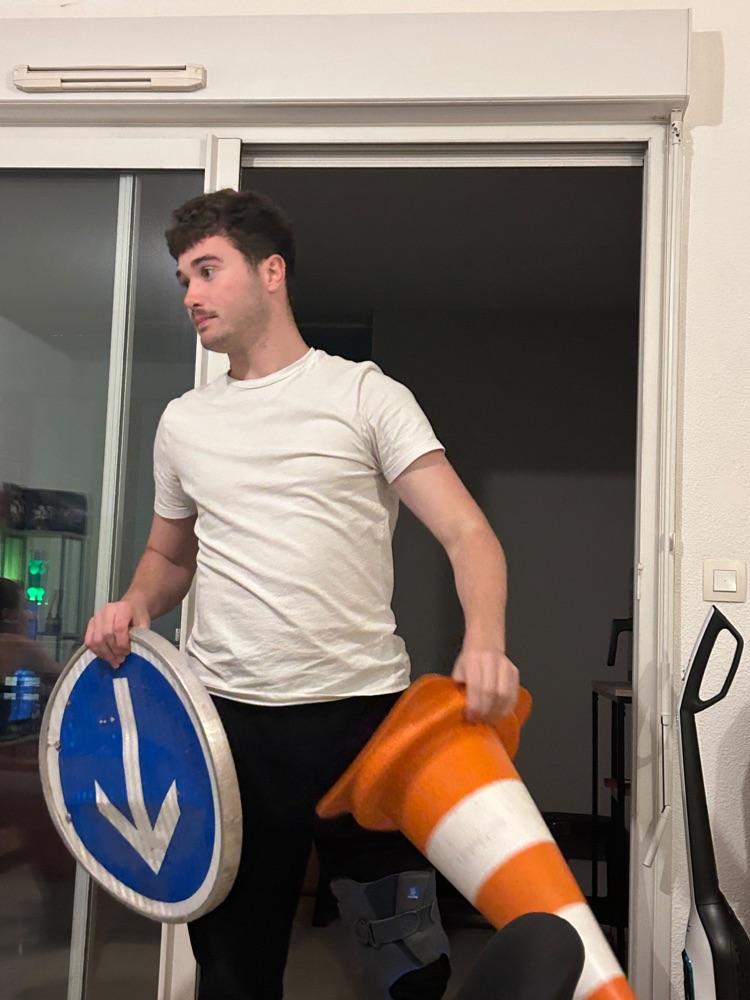
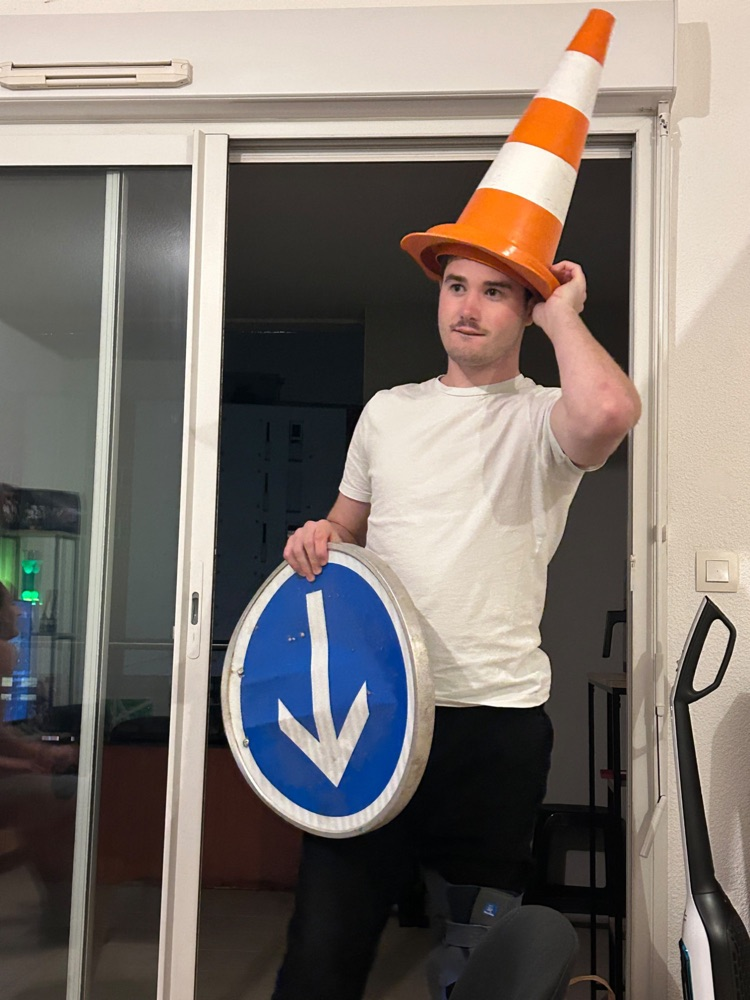
Accueil : nom Yanoé (Yaya + Noé), nouvelle photo de Noé ; de 21 h à 6 h, Nono devient Natasha (Yatasha)

diff --git a/app.js b/app.js
@@ -122,6 +122,11 @@
   }
   const thumb = (src, alt) => `<span class="drawn th">${img(src, alt)}</span>`;
 
+  // Noé (Nono) devient Natasha de 21 h à 6 h ; le nom de l'appli mélange Yaya et son nom : Yanoé, ou Yatasha la nuit
+  const night = () => { const h = new Date().getHours(); return h >= 21 || h < 6; };
+  const NONO = () => night() ? 'Natasha' : 'Nono', APPNAME = () => night() ? 'Yatasha' : 'Yanoé';
+  const nightly = t => t.replace(/Nono/g, NONO()).replace(/Yanoé/g, APPNAME());
+
   // ---------- accueil : où j'en suis, et quoi faire maintenant ----------
   function home() {
     const nP = PEDI.filter(f => doneP(f.id)).length, vP = PEDI.reduce((s, f) => s + pctP(f), 0) / PEDI.length;
@@ -130,9 +135,9 @@
     const nextF = PEDI.find(f => !doneP(f.id) && f !== last);
     const regs = REG_ORDER.map(r => { const it = AQ.filter(x => x.reg === r), k = it.filter(x => doneA(x.q)).length; return `<span class="mini"><span>${REG_SHORT[r]} ${k}/${it.length}</span>${bar(k / it.length, RCOL[r])}</span>`; }).join('');
     return `<div class="wrap">
-      <header class="brand"><h1>Podo<span>Prépa</span></h1><div class="kicker">L'ORAL UEM DE PODO, SANS STRESS</div></header>
+      <header class="brand"><h1>Ya<span>${night() ? 'tasha' : 'noé'}</span></h1><div class="kicker">L'ORAL UEM DE PODO, SANS STRESS</div></header>
       <div class="team"><span class="mate zoomable"><img src="photos/equipe/yaya.jpg" data-full="photos/equipe/yaya-full.jpg" alt="Yaya"><span><b>Yaya</b> 🧢<br><small>le dev</small></span></span>
-        <span class="mate zoomable"><img src="photos/equipe/nono.jpg" data-full="photos/equipe/nono-full.jpg" alt="Nono"><span><b>Nono</b> 🚧<br><small>l'aide</small></span></span></div>
+        <span class="mate zoomable"><img src="photos/equipe/nono.jpg" data-full="photos/equipe/nono-full.jpg" alt="${NONO()}"><span><b>${NONO()}</b> 🚧<br><small>l'aide</small></span></span></div>
       ${todayCard()}
       ${last ? `<a class="card resume" href="#/pedi/${last.id}${S.last.k ? '/p' + S.last.k : ''}">${thumb(ill(last.id, S.last.k ? `p${S.last.k}b` : 'cover'), last.title)}
         <span class="rt"><span class="kicker">▶ REPRENDRE</span><span class="t">${last.n}. ${esc(last.title)}</span><span class="s">${S.last.k ? `Partie ${S.last.k} · ${esc(last.parts[S.last.k - 1].title)}` : 'Le plan de la fiche'}</span>${segs(last)}</span></a>` : ''}
@@ -255,7 +260,7 @@
     ] },
     { v: 51, items: [
       ['✏', 'Examen clinique : tous les dessins des tests ont été refaits, plus clairs, avec les mains du praticien et des gros plans sur le genou, la cheville et le pied.'],
-      ['🧢', 'L\'appli s\'appelle PodoPrépa, et tu peux voir qui l\'a faite : Yaya et Nono, en haut de l\'accueil.'],
+      ['🧢', 'L\'appli s\'appelle Yanoé (Yaya + Noé), et tu peux voir qui l\'a faite : Yaya et Nono, en haut de l\'accueil.'],
     ] },
   ];
   const NOTE_V = NOTES[NOTES.length - 1].v;
@@ -265,7 +270,7 @@
     if (!news.length || $('.note')) return;
     const d = document.createElement('div'); d.className = 'note';
     d.innerHTML = `<div class="card" role="dialog" aria-label="Quoi de neuf"><div class="kicker">MISE À JOUR</div><h2>Quoi de neuf ?</h2>
-      <ul>${news.flatMap(n => n.items).map(([e, t]) => `<li><span>${e}</span><span>${esc(t)}</span></li>`).join('')}</ul>
+      <ul>${news.flatMap(n => n.items).map(([e, t]) => `<li><span>${e}</span><span>${esc(nightly(t))}</span></li>`).join('')}</ul>
       ${news.some(n => n.theme) ? `<div class="row2"><button class="btn grow" data-skin="drawn" style="--c:var(--hl)">Garder le dessiné</button><button class="btn ghost grow" data-skin="classic">L'ancien style</button></div>`
         : `<button class="btn wide" data-note="ok">C'est parti !</button>`}</div>`;
     document.body.appendChild(d);
